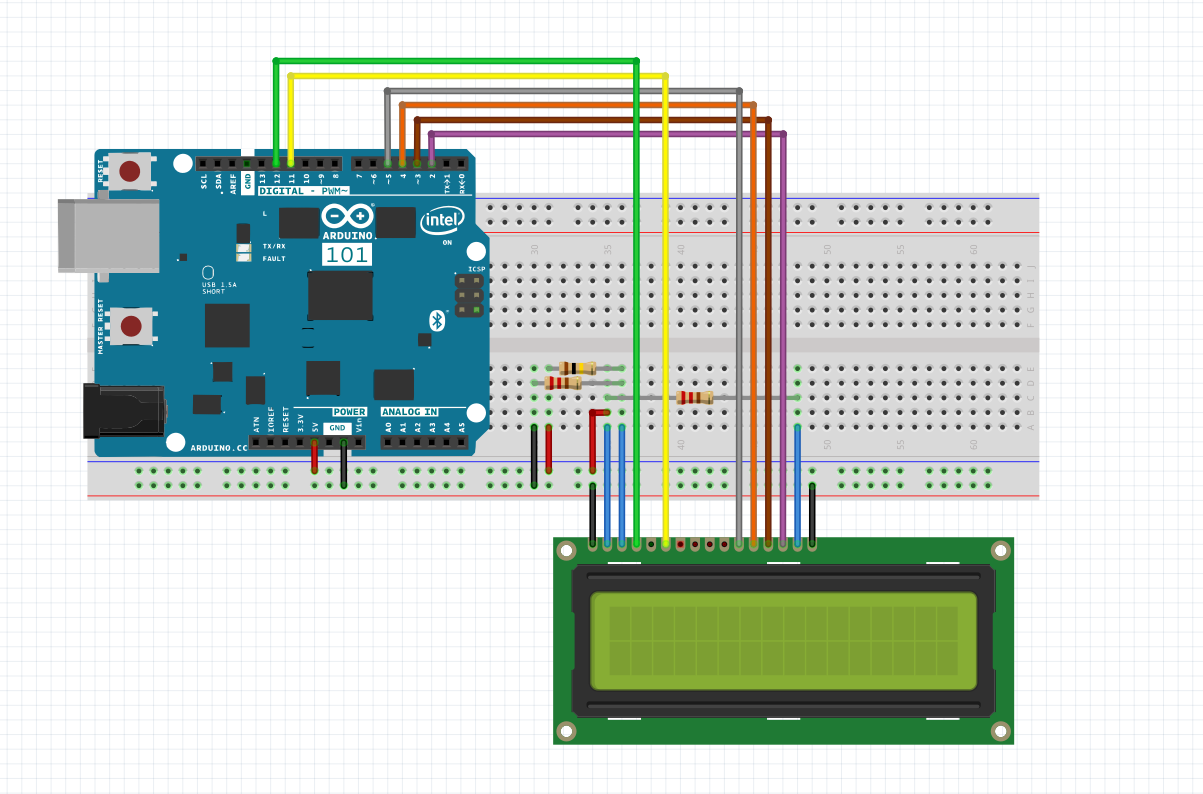
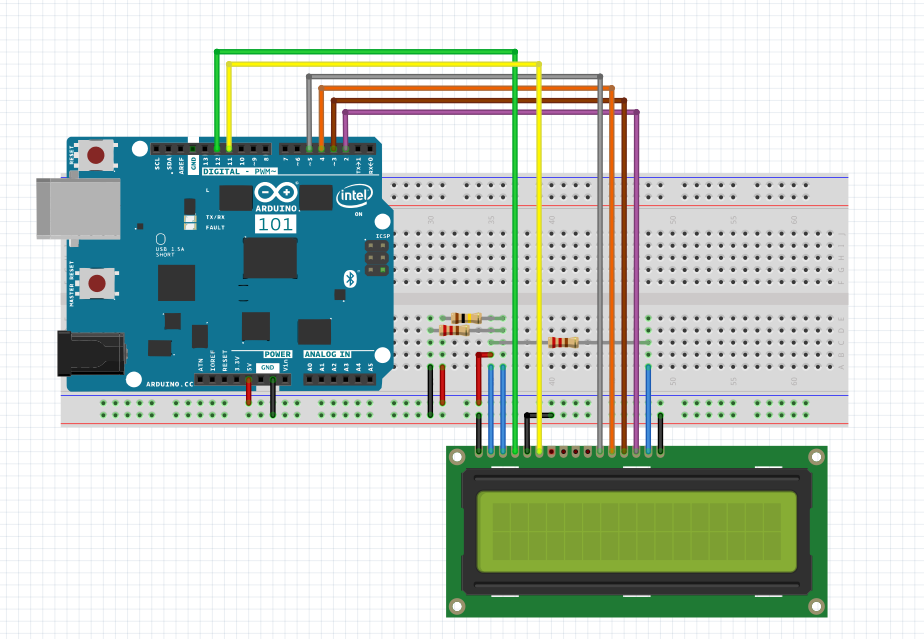
Added Temperature Sensor for Arduino/Genuino 101

diff --git a/Arduino_Genuino_101/TemperatureSensor-KY-028/README.md b/Arduino_Genuino_101/TemperatureSensor-KY-028/README.md
@@ -1,0 +1,24 @@
+# Temperature Sensor - KY-028
+
+## About
+
+An Intel Curie Arduino/Genuino 101 board based project to sense the temperature using the KY-028 sensor module.
+
+## Requirements
+
+* Arduino/Genuino 101 and USB cable
+* KY-028 sensor module
+* JHD 162A LCD module
+* Resistors: 220, 1K, 10K, 100K Ohms
+* M2M Jumper Wires and Connecting Wires
+
+## Diagrams
+
+![KY-028](https://raw.githubusercontent.com/Sampreet/iot-projects/master/Arduino_Genuino_101/TemperatureSensor-KY-028/Diagrams/KY_028.PNG "KY-028")
+
+![KY-028 Pin Diagram](https://raw.githubusercontent.com/Sampreet/iot-projects/master/Arduino_Genuino_101/TemperatureSensor-KY-028/Diagrams/KY_028_Pin_Diagram.PNG "KY-028 Pin Diagram")
+
+![KY-028 Interfacing with Arduino 101](https://raw.githubusercontent.com/Sampreet/iot-projects/master/Arduino_Genuino_101/TemperatureSensor-KY-028/Diagrams/Arduino101_KY_028_JHD162A.PNG "KY-028 Interfacing")
+
+
+

diff --git a/Arduino_Genuino_101/LiquidCrystalDisplay-JHD162A/README.md b/Arduino_Genuino_101/LiquidCrystalDisplay-JHD162A/README.md
@@ -13,5 +13,9 @@ An Intel Curie Arduino/Genuino 101 board based project to display text using a J
 
 ## Diagrams
 
+![JHD 162A](https://raw.githubusercontent.com/Sampreet/iot-projects/master/Arduino_Genuino_101/LiquidCrystalDisplay-JHD162A/Diagrams/JHD162A.PNG "JHD 162A")
+
+![JHD 162A Pin Diagram](https://raw.githubusercontent.com/Sampreet/iot-projects/master/Arduino_Genuino_101/LiquidCrystalDisplay-JHD162A/Diagrams/JHD162A_Pin_Diagram.PNG "JHD 162A Pin Diagram")
+
 ![JHD 162A Interfacing with Arduino 101](https://raw.githubusercontent.com/Sampreet/iot-projects/master/Arduino_Genuino_101/LiquidCrystalDisplay-JHD162A/Diagrams/Arduino101_JHD162A.PNG "JHD 162A Interfacing")
 

diff --git a/Arduino_Genuino_101/PulseRateSensor-INVNT_11/README.md b/Arduino_Genuino_101/PulseRateSensor-INVNT_11/README.md
@@ -14,6 +14,8 @@ An Intel Curie Arduino/Genuino 101 board based project to sense the pulse rate u
 
 ## Diagrams
 
+![INVNT_11](https://raw.githubusercontent.com/Sampreet/iot-projects/master/Arduino_Genuino_101/PulseRateSensor-INVNT_11/Diagrams/INVNT_11.PNG "INVNT_11")
+
 ![INVNT_11 Interfacing with Arduino 101](https://raw.githubusercontent.com/Sampreet/iot-projects/master/Arduino_Genuino_101/PulseRateSensor-INVNT_11/Diagrams/Arduino101_INVNT_11_JHD162A.PNG "INVNT_11 Interfacing")
 
 
